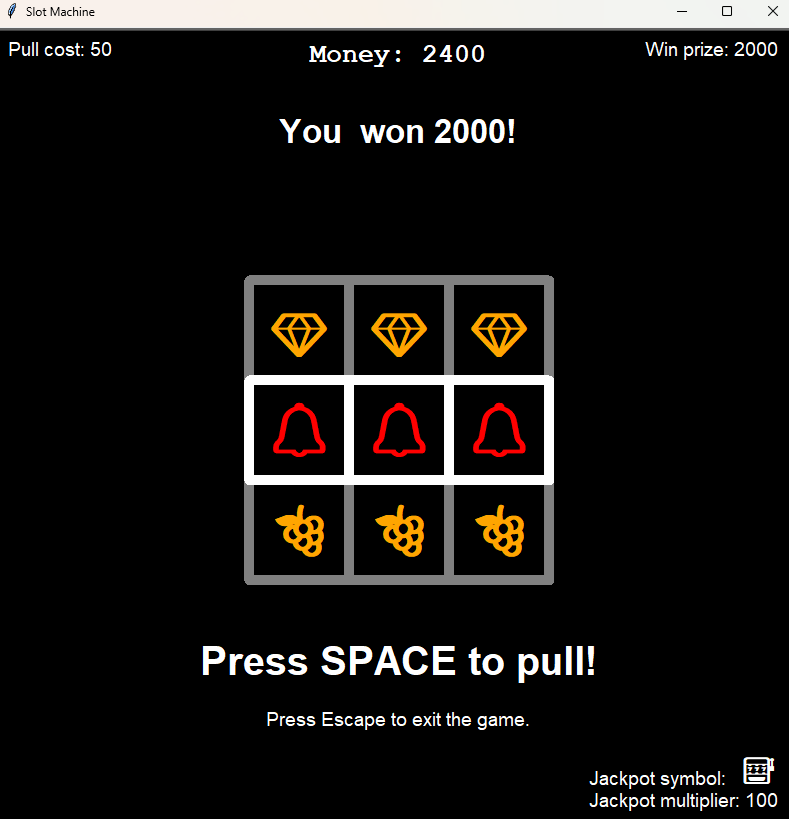
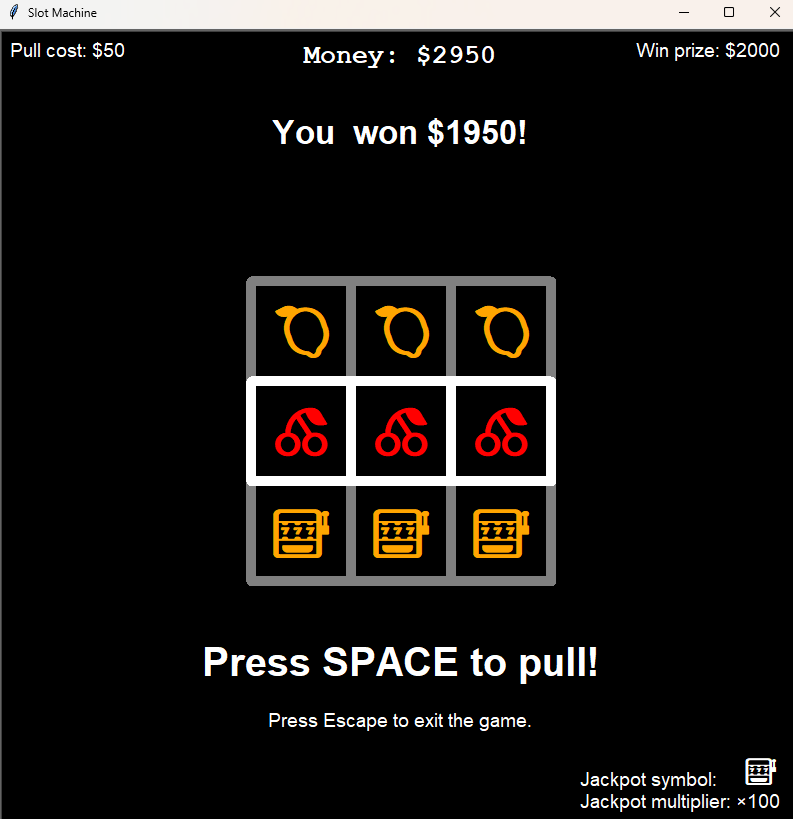
Implement pull cost deduction
- Deduct the cost of each pull at the start of the pull method.
- Add winnings on top of the cost without refunding the cost.
- Adjust messages to reflect cost and winnings appropriately.
- Add dollar signs to all money values in game for consistency.
- Use × symbol for jackpot multiplier in display messages.

diff --git a/src/machine.py b/src/machine.py
@@ -174,6 +174,9 @@ class Machine:
         self.processing = True
 
         try:
+            pull_cost = self.money.get_pull_cost()
+            self.money.decrease_money(pull_cost)
+
             pull_cycles = randint(MIN_PULL_CYCLES, MAX_PULL_CYCLES)
             self.logger.log(f"Starting pull sequence with {pull_cycles} cycles.")
             self.instructions.hide_instructions()
@@ -190,23 +193,21 @@ class Machine:
                     if self.check_jackpot():
                         jackpot_prize = self.money.get_win_prize() * self.money.get_jackpot_multiplier()
                         self.money.increase_money(jackpot_prize)
-                        self.messages.player_won_jackpot_message(jackpot_prize)
-                        self.logger.log(f"Player won a jackpot! Prize: {jackpot_prize}")
+                        self.messages.player_won_jackpot_message(jackpot_prize - pull_cost)
+                        self.logger.log(f"Player won a jackpot! Prize: ${jackpot_prize - pull_cost}")
                     else:
                         win_prize = self.money.get_win_prize()
                         self.money.increase_money(win_prize)
-                        self.messages.player_won_message(win_prize)
-                        self.logger.log(f"Player won! Prize: {win_prize}")
+                        self.messages.player_won_message(win_prize - pull_cost)
+                        self.logger.log(f"Player won! Prize: ${win_prize - pull_cost}")
                 else:
                     win_prize = self.money.get_win_prize()
                     self.money.increase_money(win_prize)
-                    self.messages.player_won_message(win_prize)
-                    self.logger.log(f"Player won! Prize: {win_prize}")
+                    self.messages.player_won_message(win_prize - pull_cost)
+                    self.logger.log(f"Player won! Prize: ${win_prize - pull_cost}")
             else:
-                pull_cost = self.money.get_pull_cost()
-                self.money.decrease_money(self.money.get_pull_cost())
-                self.messages.player_lost_message(self.money.get_pull_cost())
-                self.logger.log(f"Player lost. Cost: {pull_cost}")
+                self.messages.player_lost_message(pull_cost)
+                self.logger.log(f"Player lost. Cost: ${pull_cost}")
 
             self.money.update_money()
             self.instructions.show_instructions()

diff --git a/src/money.py b/src/money.py
@@ -79,9 +79,10 @@ class Money(Turtle):
             self.color(LOW_MONEY_COLOR)
         else:
             self.color(DEFAULT_MONEY_COLOR)
-        self.write(f"Money: {self.money}", align=MONEY_ALIGNMENT, font=MONEY_FONT)
+        self.write(f"Money: ${self.money}", align=MONEY_ALIGNMENT, font=MONEY_FONT)
         self.show_pull_cost()
         self.show_win_prize()
+        self.color(DEFAULT_MONEY_COLOR)
         self.show_jackpot()
 
     def increase_money(self, amount: int) -> None:
@@ -107,7 +108,7 @@ class Money(Turtle):
         Display the current win prize on the screen.
         """
         self.goto(PRIZE_MESSAGES_X_POSITION, PRIZE_MESSAGES_Y_POSITION)
-        self.write(f"Win prize: {self.get_win_prize()}",
+        self.write(f"Win prize: ${self.get_win_prize()}",
                    align=PRIZE_MESSAGES_ALIGNMENT, font=MONEY_MESSAGES_FONT)
 
     def show_pull_cost(self) -> None:
@@ -115,7 +116,7 @@ class Money(Turtle):
         Display the current pull cost on the screen.
         """
         self.goto(PULL_MESSAGES_X_POSITION, PULL_MESSAGES_Y_POSITION)
-        self.write(f"Pull cost: {self.get_pull_cost()}",
+        self.write(f"Pull cost: ${self.get_pull_cost()}",
                    align=PULL_MESSAGES_ALIGNMENT, font=MONEY_MESSAGES_FONT)
 
     def show_jackpot(self) -> None:
@@ -148,7 +149,7 @@ class Money(Turtle):
         # Move to a new line for the rest of the text
         self.goto(JACKPOT_X_POSITION, JACKPOT_Y_POSITION - line_spacing)
         # Display the jackpot information in the original font
-        jackpot_info = f"{jackpot_label} \nJackpot multiplier: {self.get_jackpot_multiplier()}"
+        jackpot_info = f"{jackpot_label} \nJackpot multiplier: ×{self.get_jackpot_multiplier()}"
         self.write(jackpot_info, align=PRIZE_MESSAGES_ALIGNMENT, font=MONEY_MESSAGES_FONT)
 
     def get_win_prize(self) -> int:

diff --git a/src/messages.py b/src/messages.py
@@ -48,7 +48,7 @@ class Messages(Turtle):
         """
         self.clear()
         self.goto(MAIN_MESSAGES_X_POSITION, MAIN_MESSAGES_Y_POSITION)
-        self.write(f"You  won {won_amount}!", align=MAIN_MESSAGES_ALIGNMENT, font=MAIN_MESSAGES_FONT)
+        self.write(f"You  won ${won_amount}!", align=MAIN_MESSAGES_ALIGNMENT, font=MAIN_MESSAGES_FONT)
 
     def player_lost_message(self, lost_amount: int) -> None:
         """
@@ -59,7 +59,7 @@ class Messages(Turtle):
         """
         self.clear()
         self.goto(MAIN_MESSAGES_X_POSITION, MAIN_MESSAGES_Y_POSITION)
-        self.write(f"You lost {lost_amount}!", align=MAIN_MESSAGES_ALIGNMENT, font=MAIN_MESSAGES_FONT)
+        self.write(f"You lost ${lost_amount}!", align=MAIN_MESSAGES_ALIGNMENT, font=MAIN_MESSAGES_FONT)
 
     def player_won_jackpot_message(self, won_amount: int) -> None:
         """
@@ -71,7 +71,7 @@ class Messages(Turtle):
         self.clear()
         self.goto(MAIN_MESSAGES_X_POSITION, MAIN_MESSAGES_Y_POSITION)
         self.color(JACKPOT_COLOR)
-        self.write(f"JACKPOT: {won_amount}!", align=MAIN_MESSAGES_ALIGNMENT, font=MAIN_MESSAGES_FONT)
+        self.write(f"JACKPOT: ${won_amount}!", align=MAIN_MESSAGES_ALIGNMENT, font=MAIN_MESSAGES_FONT)
         self.color(MESSAGES_COLOR)
 
     def remove_messages(self) -> None:

diff --git a/src/validation.py b/src/validation.py
@@ -7,7 +7,8 @@ the required criteria for the game to function correctly.
 
 from config import (
     NUMBER_OF_SLOTS, DEFAULT_SLOT_SIZE, MIN_PULL_CYCLES, MAX_PULL_CYCLES,
-    SLOT_SYMBOLS, SLOT_NUMBERS, JACKPOT_WINNING_SYMBOL, JACKPOT_WINNING_NUMBER
+    SLOT_SYMBOLS, SLOT_NUMBERS, JACKPOT_WINNING_SYMBOL, JACKPOT_WINNING_NUMBER,
+    PULL_COST, WIN_PRIZE
 )
 
 
@@ -33,6 +34,8 @@ def validate_configurations() -> None:
         errors.append("MAX_PULL_CYCLES must not be greater than 100.")
     if MIN_PULL_CYCLES > MAX_PULL_CYCLES:
         errors.append("MIN_PULL_CYCLES must not be greater than MAX_PULL_CYCLES.")
+    if WIN_PRIZE < PULL_COST * 2:
+        errors.append("WIN_PRIZE must be at least twice as big as PULL_COST.")
 
     # Validate SLOT_SYMBOLS
     for i, symbol in enumerate(SLOT_SYMBOLS):

diff --git a/src/config.py b/src/config.py
@@ -69,7 +69,7 @@ LOW_MONEY_COLOR: str = "red"
 MONEY_X_POSITION: int = 0
 MONEY_Y_POSITION: int = 360
 DEFAULT_MONEY: int = 1000
-WIN_PRIZE: int = 2000
+WIN_PRIZE: int = 2000  # must be at least twice as big as PULL_COST
 PULL_COST: int = 50
 
 # Instructions configuration
